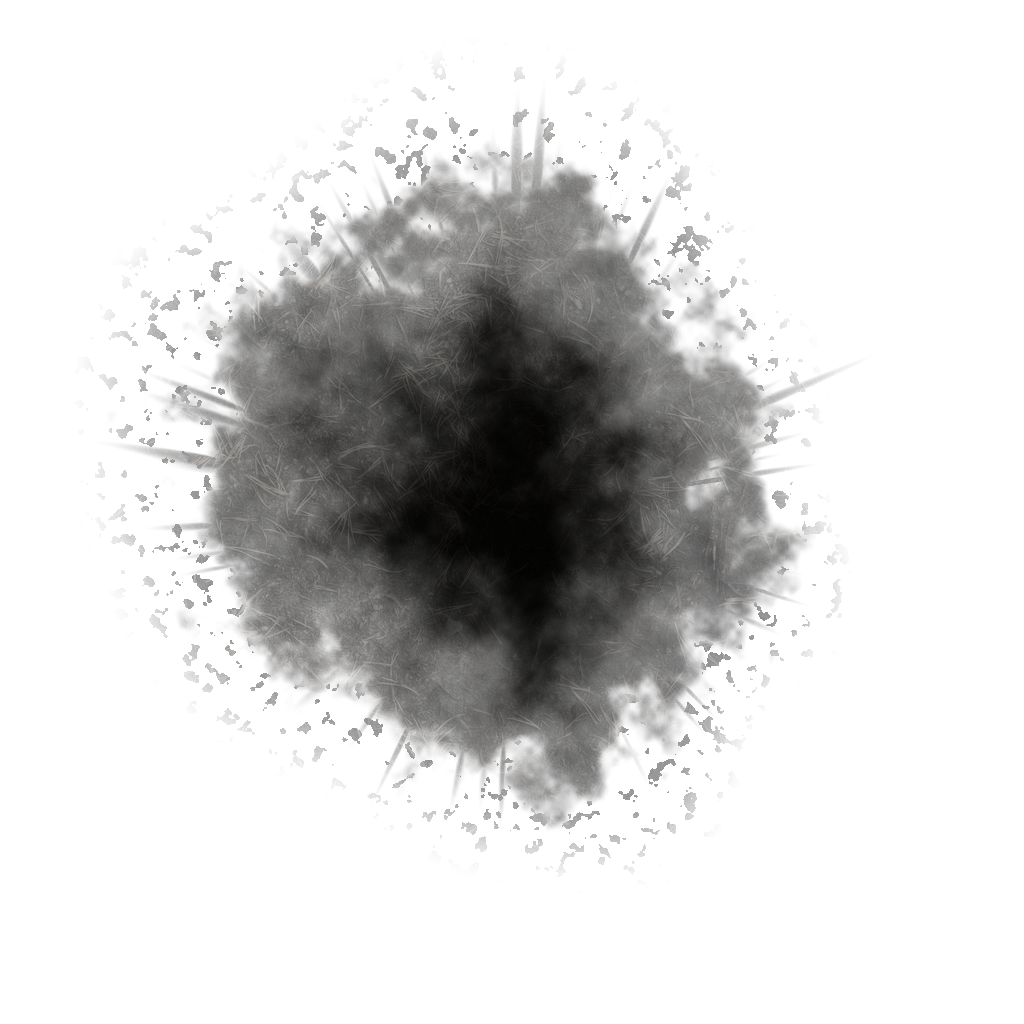
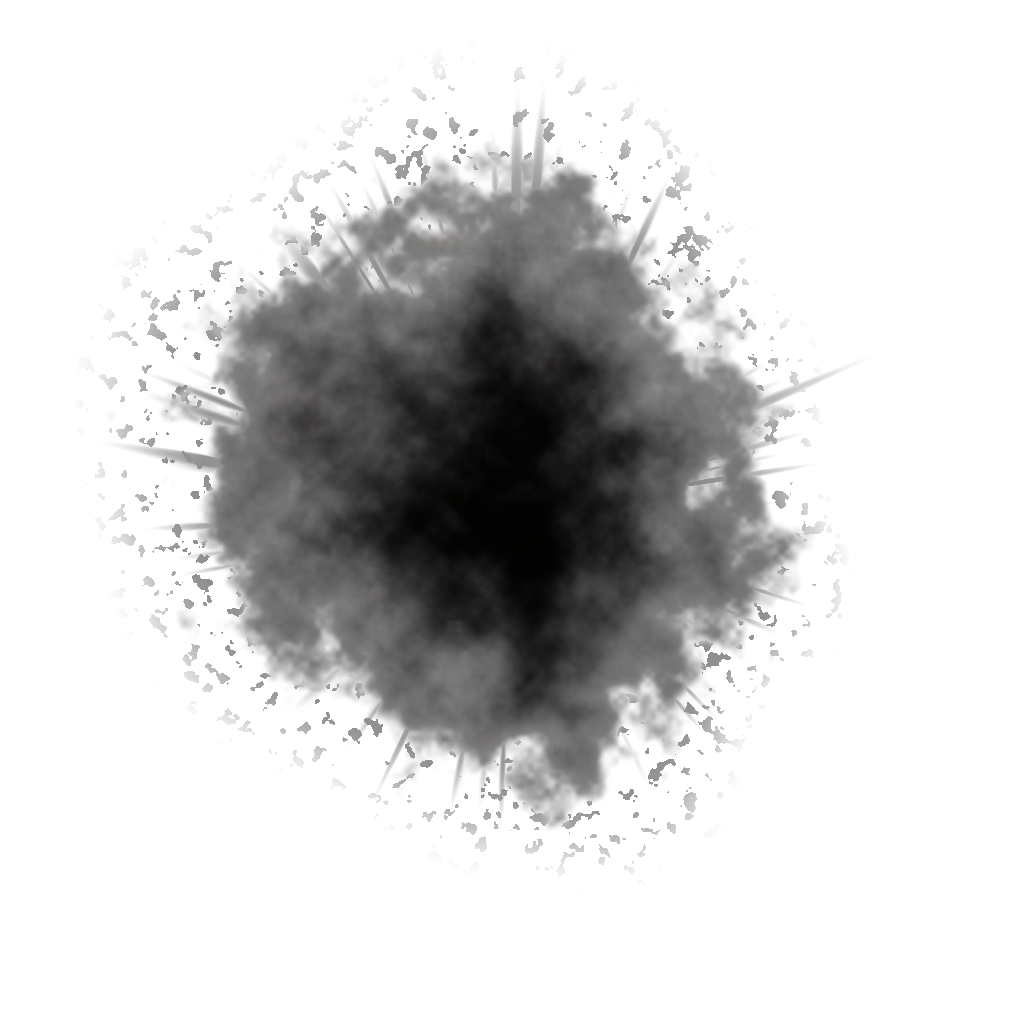
S11-27, S11-28: scorch without straw; Thermobaric blast on impact
S11-27: the "hay" after explosions was the scorch decal. The Poly Haven
burned-ground photo it is built from has pale straw blades, and on many
large marks they read as hay on the ground. make_scorch.py now wipes out
thin bright strokes with a grey opening (min, then max filter) before
the photo is used, and scorch.png is rebaked.

S11-28: the pulsing on the ground before a salvo rocket blast was the
Thermobaric charge sticking for 0.5 s. It now goes off on impact, in the
same frame (merging of nearby blasts within 0.3 s is kept), and the
pulsing circle is gone. Card text RU/EN/ZH, progression doc and the
decision log are updated (Kanta approved the s11 fix plan).

Claude-Session: https://claude.ai/code/session_01BJWa3za3MFpqMJgWkE95XY

diff --git a/game/tools/vfx_bake/make_scorch.py b/game/tools/vfx_bake/make_scorch.py
@@ -6,7 +6,8 @@ built the same way:
   - radius warped by low-frequency noise over the angle (lumpy, never a circle);
   - thin radial rays (high-frequency noise over the angle) that reach further out than the body;
   - fbm breakup near the rim and scattered specks outside it.
-Colour: Poly Haven "Burned Ground 01" (CC0, Rob Tuytel) for the detail, darkened toward the centre.
+Colour: Poly Haven "Burned Ground 01" (CC0, Rob Tuytel) for the detail, darkened toward the centre; its pale
+straw blades are filtered out (they looked like hay on large marks).
 Straight alpha, RGBA 1024 px, transparent border so the decal never shows its box edge.
 
 Run from the repo root:
@@ -17,9 +18,10 @@ Dependencies: Pillow, numpy.
 import argparse
 
 import numpy as np
-from PIL import Image
+from PIL import Image, ImageFilter
 
 SIZE = 1024
+STRAW_PX = 9   # odd filter size in px; straw blades in the 1k source are 2-6 px wide
 
 
 def periodic_noise(rng: np.random.Generator, theta: np.ndarray, harmonics: int, falloff: float) -> np.ndarray:
@@ -77,6 +79,9 @@ def bake(src: str, out: str, seed: int) -> None:
     alpha = np.clip(alpha, 0, 1)
 
     tex = Image.open(src).convert("RGB").resize((SIZE, SIZE), Image.LANCZOS)
+    # the photo has pale burnt straw blades; on a large mark they read as hay lying on the ground (s11 note 27),
+    # so a grey opening (min, then max filter) wipes out every bright stroke thinner than STRAW_PX
+    tex = tex.filter(ImageFilter.MinFilter(STRAW_PX)).filter(ImageFilter.MaxFilter(STRAW_PX))
     rgb = np.asarray(tex, dtype=np.float64) / 255.0
     lum = rgb.mean(axis=2, keepdims=True)
     detail = 0.35 * rgb + 0.65 * lum                 # mostly luminance: soot, not straw

diff --git a/docs/progression/progression-system.md b/docs/progression/progression-system.md
@@ -205,7 +205,7 @@
 | id | Связка | Требует | Гл. тег | 2-й тег | Эффект |
 |---|---|---|---|---|---|
 | `carousel` | Карусель | Ракеты В-В | Ракеты | Манёвр | ракета В-В, сбившая цель, сразу пускает новую в ближайшую (≤ 900); до 4 перепусков, каждый +20% урона |
-| `thermobaric` | Термобарика | НАР | Взрыв | Ракеты | НАР прилипает и через 0,5 с даёт объёмный взрыв 130 (урон ×1,5); взрывы рядом сливаются: +30% урона и +20 пикс. за соседа, до ×2 |
+| `thermobaric` | Термобарика | НАР | Взрыв | Ракеты | НАР сразу даёт объёмный взрыв 130 (до S11-28 — через 0,5 с после прилипания) (урон ×1,5); взрывы рядом сливаются: +30% урона и +20 пикс. за соседа, до ×2 |
 | `salvo` | Огненный вал | НАР | Ракеты | Взрыв | каждый 3-й залп — вал: 3 линии по 5 взрывов в 250 / 450 / 650 пикс. впереди, ширина 420, урон ×1,3 |
 | `carpet_road` | Ковровая дорожка | Бомбы | Взрыв | Броня | бомба выбрасывает 4 суббоеприпаса крестом (50% урона, 70% радиуса) и оставляет горящее пятно 2,5 с (12 урона/с) |
 | `chain` | Цепная реакция | НАР или Бомбы | Взрыв | Броня | враг, убитый взрывом, взрывается сам: 30 + 10% его макс. прочности, радиус 90 (+15% за звено), цепь до 5 |

diff --git a/docs/game-context.md b/docs/game-context.md
@@ -412,3 +412,4 @@
 | 2026-10-24 | **Осa 2 model source (legal call):** a render of a third-party view-only Sketchfab model (#63, no licence) may be shown to Meshy as an image reference; Meshy redraws it (gear up, neutral grey, no insignia) and generates a new model under our commercial Meshy plan. Claude flagged the derivative-work risk; Kanta decided. Result: `/mnt/project-files/wip/osa2_meshy/osa2_meshy_v3_raw.glb`, frames https://claude.ai/artifact/6wqqtRMWVNwcSCvU3nAsyj. Meshy spent 104 credits total. | Kanta |
 | 2026-10-24 | **PG-01 merged into the test build ahead of GD-02/03** (Kanta, decision card 19:36 UTC): new weapons, per-plane sets, 3rd group, course guns and ammo, wingman timings and volumetric icons are in the game now (PR #382). GD-02/03 follow in later builds | Kanta |
 | 2026-10-25 | **Starting weapons as one list (S11-09, Kanta «да» 25.10), S11-04/05:** hangar Weapons tab: one list of the plane's weapons, «На старт» toggle, at most 2 kinds start; signature preselected but optional; 2nd place from crew Lv. 5 (unchanged gate, Kanta confirmed on the decision card 25.10); old saves migrate (signature + old 2nd pick). Course gun and ammo moved to the left column, each with its own description | Kanta |
+| 2026-10-25 | **S11-28 «Термобарика» без паузы:** the salvo rocket no longer sticks and pulses for 0,5 s; the fuel-air blast (dmg ×1,5, merge up to ×2 within 0,3 s) goes off on impact. The pause read as a delayed rocket blast in s11. Card text RU/EN/ZH updated | Kanta (s11 fix plan «Ок, делаем»), Claude |
